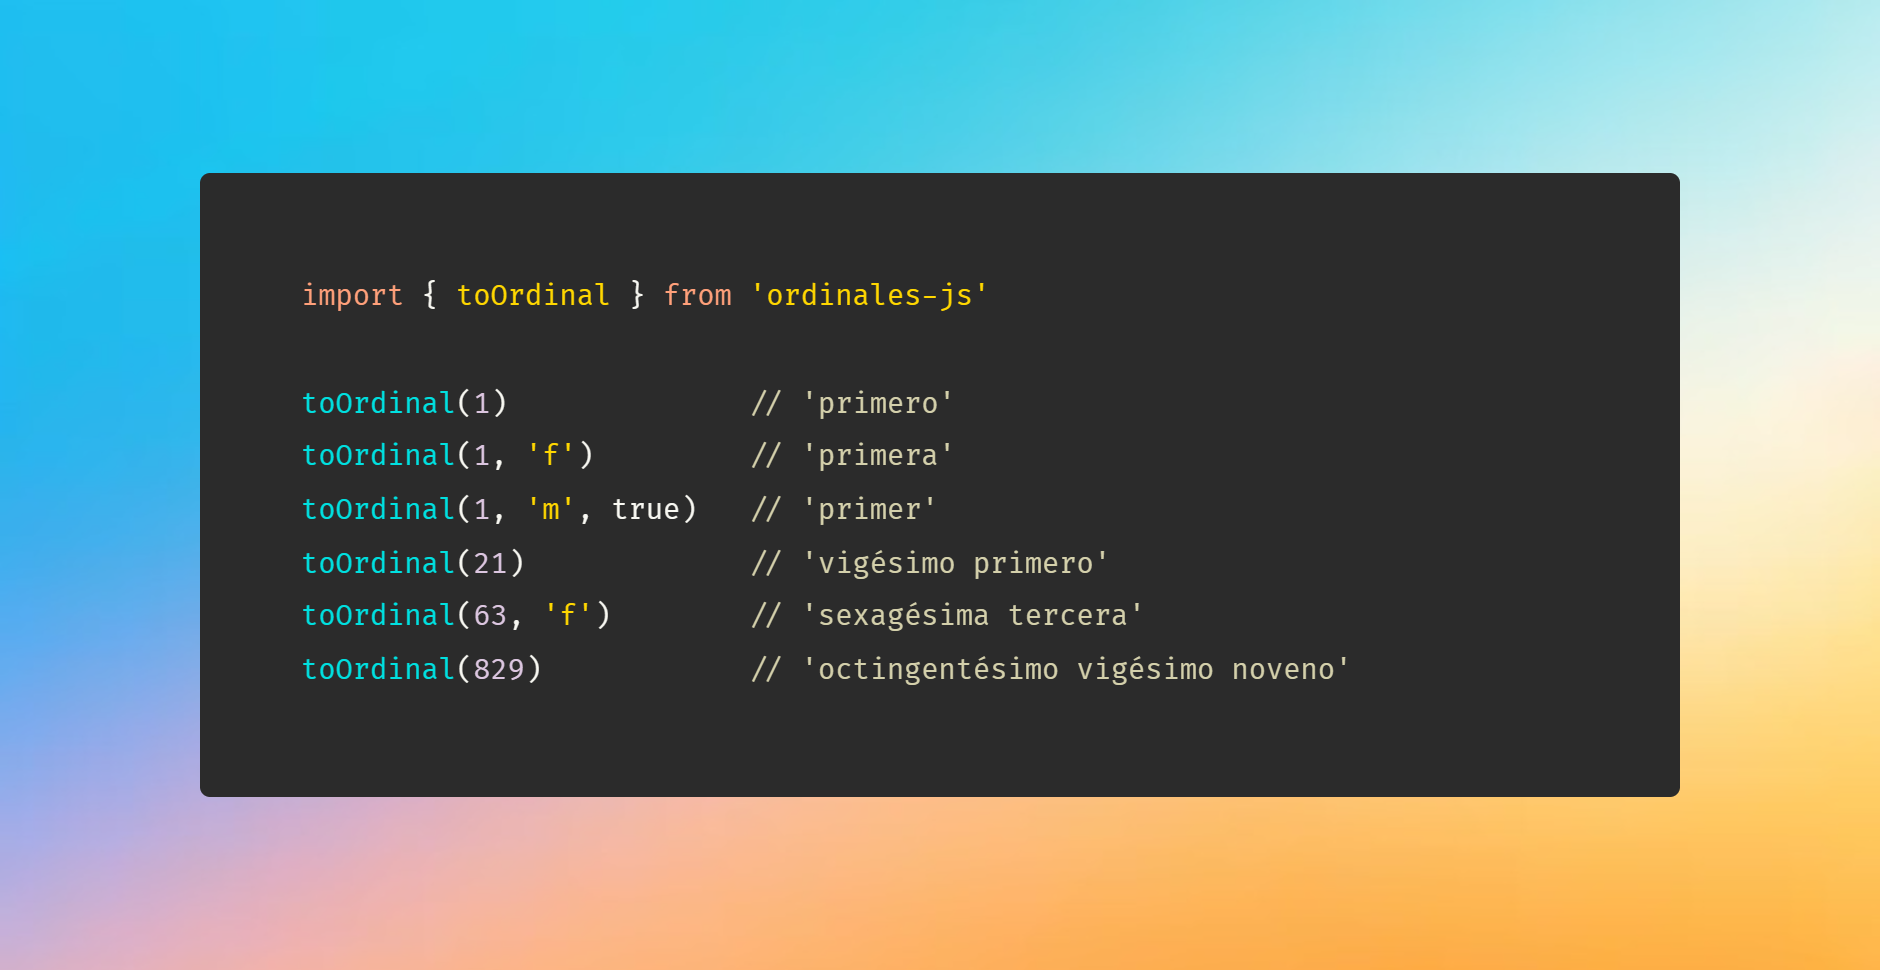
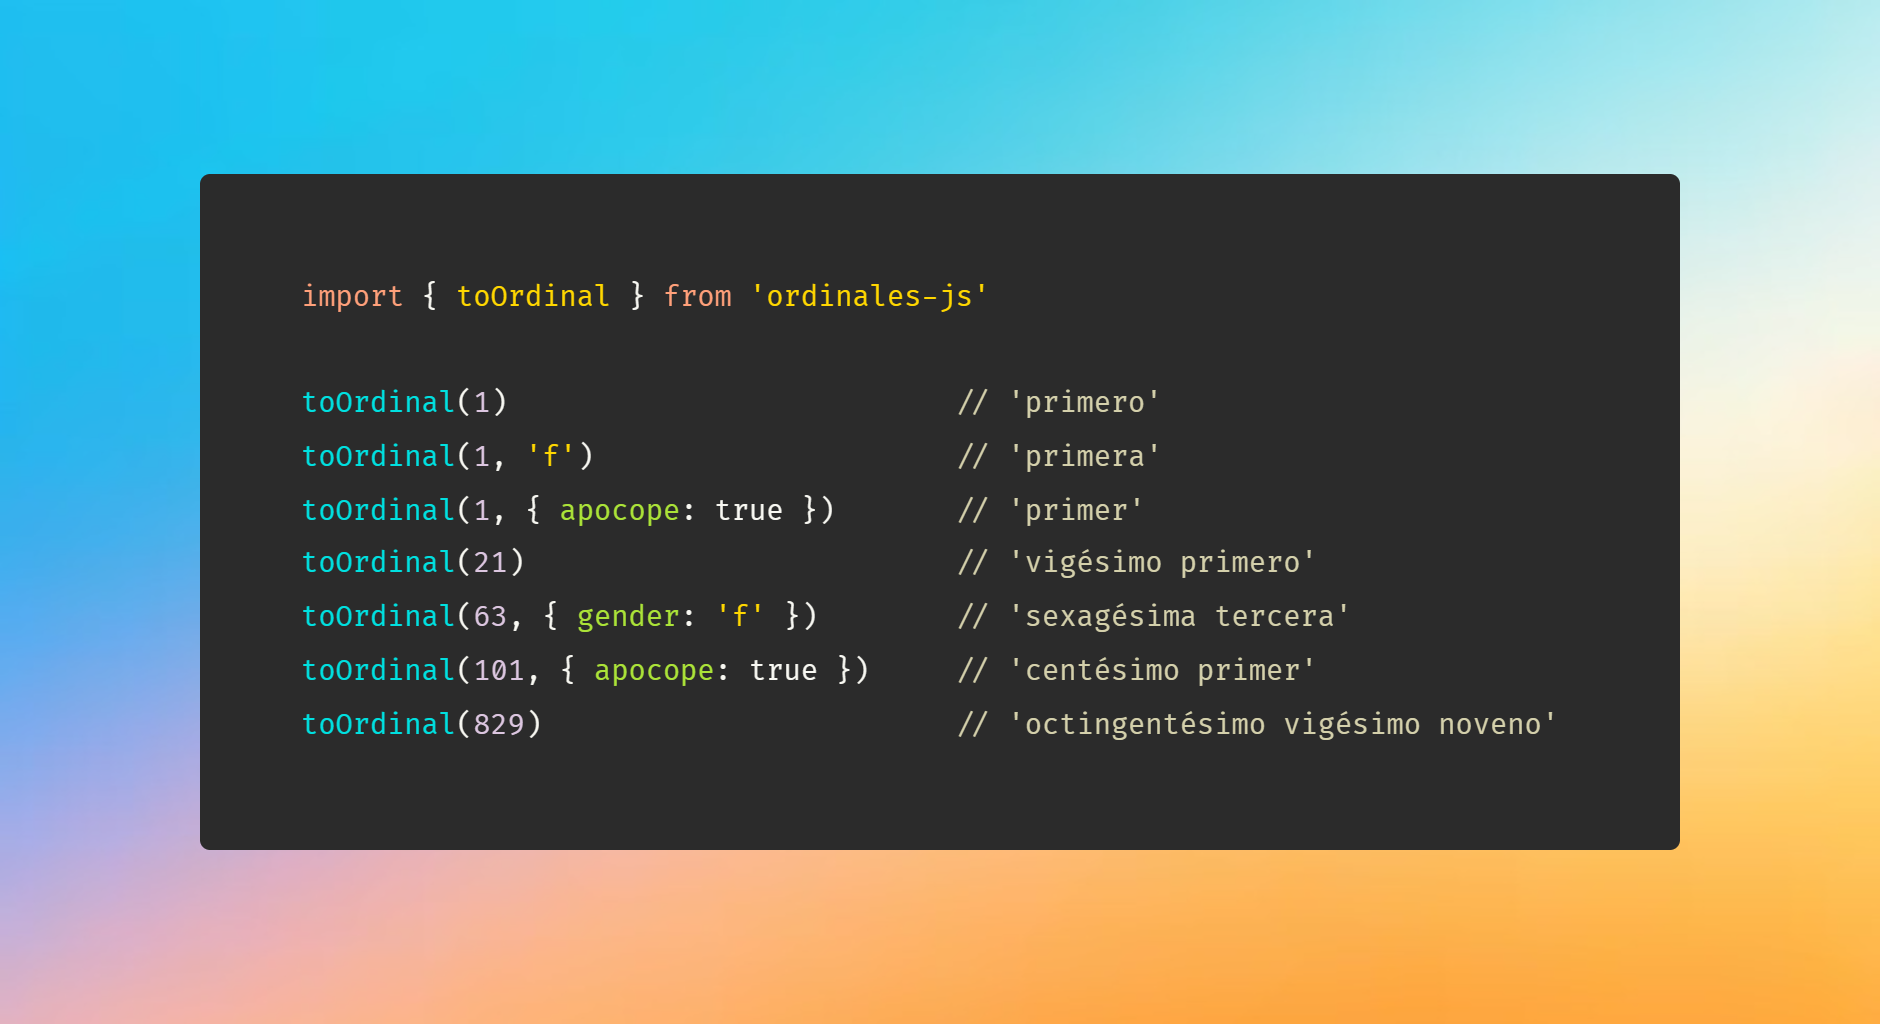
Merge pull request #27 from AndresSaa/feat/options-object-api
feat: segundo parámetro como objeto { gender, apocope } en toOrdinal

Pull request: feat: segundo parámetro como objeto { gender, apocope } en toOrdinal
## Resumen

- El segundo parámetro de `toOrdinal` acepta ahora un objeto `{ gender, apocope }` además del string de género abreviado (`'m'` / `'f'`), lo que permite combinar ambas opciones en una sola llamada
- Se elimina el tercer parámetro posicional (nunca publicado en npm): el apócope pasa a vivir en el objeto de opciones
- Tests, demo, README y CHANGELOG actualizados para reflejar la nueva API limpiamente

## Cambios

- `src/ordinales.js` — `toOrdinal(number, options)` detecta si `options` es string u objeto
- `test.mjs` — nuevo bloque _"género mediante objeto de opciones"_; todos los casos de apócope usan `{ apocope: true }`
- `demo.mjs` — usa `{ apocope: true }` como segundo argumento
- `README.md` — sección Género con forma objeto, sección Apócope actualizada, ejemplo de `enhance()` con número que muestra apócope real (`21`)
- `CHANGELOG.md` — documenta la API de opciones en v2.0.0; elimina referencia al tercer parámetro en v1.1.0

## Plan de pruebas

- [ ] `npm test` — 6/6 tests pasan
- [ ] `npm run demo` — salida correcta en las tres columnas
- [ ] Revisar ejemplos del README manualmente contra la salida real

diff --git a/src/ordinales.js b/src/ordinales.js
@@ -57,7 +57,10 @@ const buildParts = (n, gender = 'm') => {
 }
 
 // Convierte un número a su forma ordinal en español, con opciones de género y apócope
-const toOrdinal = (number = 0, gender = 'm', apocope = false) => {
+const toOrdinal = (number = 0, options = 'm') => {
+  const gender  = typeof options === 'object' ? (options.gender  ?? 'm')   : options
+  const apocope = typeof options === 'object' ? (options.apocope ?? false) : false
+
   const ordinal = buildParts(number, gender)
     .map(part => gender === 'f' ? part.slice(0, -1) + 'a' : part)
     .join(' ')

diff --git a/README.md b/README.md
@@ -32,12 +32,13 @@ npm install ordinales-js
 ```js
 import { toOrdinal } from 'ordinales-js'
 
-toOrdinal(1)             // 'primero'
-toOrdinal(1, 'f')        // 'primera'
-toOrdinal(1, 'm', true)  // 'primer'
-toOrdinal(21)            // 'vigésimo primero'
-toOrdinal(63, 'f')       // 'sexagésima tercera'
-toOrdinal(829)           // 'octingentésimo vigésimo noveno'
+toOrdinal(1)                          // 'primero'
+toOrdinal(1, 'f')                     // 'primera'
+toOrdinal(1, { apocope: true })       // 'primer'
+toOrdinal(21)                         // 'vigésimo primero'
+toOrdinal(63, { gender: 'f' })        // 'sexagésima tercera'
+toOrdinal(101, { apocope: true })     // 'centésimo primer'
+toOrdinal(829)                        // 'octingentésimo vigésimo noveno'
 ```
 
 **CommonJS**
@@ -45,26 +46,41 @@ toOrdinal(829)           // 'octingentésimo vigésimo noveno'
 ```js
 const { toOrdinal } = require('ordinales-js')
 
-toOrdinal(1)             // 'primero'
-toOrdinal(1, 'f')        // 'primera'
-toOrdinal(1, 'm', true)  // 'primer'
+toOrdinal(1)                          // 'primero'
+toOrdinal(1, 'f')                     // 'primera'
+toOrdinal(1, { apocope: true })       // 'primer'
 ```
 
 ## API
 
-### `toOrdinal(numero, genero?, apocope?)`
+### `toOrdinal(numero, opciones?)`
 
-| Parámetro | Tipo | Por defecto | Descripción |
-|-----------|------|-------------|-------------|
-| `numero` | `number` | `0` | Número cardinal a convertir |
-| `genero` | `'m'` \| `'f'` | `'m'` | Género del ordinal |
-| `apocope` | `boolean` | `false` | Aplica apócope al resultado (`primero` → `primer`, `tercero` → `tercer`) |
+El segundo parámetro acepta un `string` de género o un objeto de opciones.
+
+| Forma | Ejemplo |
+|-------|---------|
+| `toOrdinal(n)` | género masculino por defecto |
+| `toOrdinal(n, 'f')` | género femenino |
+| `toOrdinal(n, { gender, apocope })` | objeto de opciones |
+
+#### Opciones
+
+| Opción | Tipo | Por defecto | Descripción |
+|--------|------|-------------|-------------|
+| `gender` | `'m'` \| `'f'` | `'m'` | Género del ordinal |
+| `apocope` | `boolean` | `false` | Aplica apócope (`primero` → `primer`, `tercero` → `tercer`) |
 
 #### Género
 
 ```js
-toOrdinal(1, 'm')  // 'primero'
-toOrdinal(1, 'f')  // 'primera'
+// Forma abreviada — string
+toOrdinal(1, 'm')             // 'primero'
+toOrdinal(1, 'f')             // 'primera'
+
+// Forma objeto
+toOrdinal(1,  { gender: 'f' })  // 'primera'
+toOrdinal(21, { gender: 'f' })  // 'vigésima primera'
+toOrdinal(63, { gender: 'f' })  // 'sexagésima tercera'
 ```
 
 #### Apócope
@@ -72,24 +88,24 @@ toOrdinal(1, 'f')  // 'primera'
 Se utiliza cuando el ordinal precede a un sustantivo masculino.
 
 ```js
-toOrdinal(1, 'm', true)   // 'primer'
-toOrdinal(3, 'm', true)   // 'tercer'
-toOrdinal(21, 'm', true)  // 'vigésimo primer'
+toOrdinal(1,  { apocope: true })             // 'primer'
+toOrdinal(3,  { apocope: true })             // 'tercer'
+toOrdinal(21, { apocope: true })             // 'vigésimo primer'
 
-// El apócope no afecta al femenino
-toOrdinal(1, 'f', true)   // 'primera'
+// Con género femenino explícito — el apócope no aplica
+toOrdinal(1, { gender: 'f', apocope: true }) // 'primera'
 ```
 
 #### Números grandes
 
 ```js
-toOrdinal(10000)             // 'décimo milésimo'
-toOrdinal(21000)             // 'vigésimo primer milésimo'
-toOrdinal(21000, 'f')        // 'vigésima primera milésima'
-toOrdinal(123456)            // 'centésimo vigésimo tercer milésimo cuadrigentésimo quincuagésimo sexto'
-toOrdinal(1000000)           // 'millonésimo'
-toOrdinal(2000000)           // 'dosmillonésimo'
-toOrdinal(21000000, 'm', true) // 'vigésimo primer millonésimo'
+toOrdinal(10000)                        // 'décimo milésimo'
+toOrdinal(21000)                        // 'vigésimo primer milésimo'
+toOrdinal(21000, 'f')                   // 'vigésima primera milésima'
+toOrdinal(123456)                       // 'centésimo vigésimo tercer milésimo cuadrigentésimo quincuagésimo sexto'
+toOrdinal(1000000)                      // 'millonésimo'
+toOrdinal(2000000)                      // 'dosmillonésimo'
+toOrdinal(21000000, { apocope: true })  // 'vigésimo primer millonésimo'
 ```
 
 ### `enhance()`
@@ -104,9 +120,11 @@ const { enhance } = require('ordinales-js')
 
 enhance()
 
-const numero = 256
-numero.toOrdinal()        // 'ducentésimo quincuagésimo sexto'
-numero.toOrdinal('f')     // 'ducentésima quincuagésima sexta'
+const numero = 21
+numero.toOrdinal()                        // 'vigésimo primero'
+numero.toOrdinal('f')                     // 'vigésima primera'
+numero.toOrdinal({ gender: 'f' })         // 'vigésima primera'
+numero.toOrdinal({ apocope: true })       // 'vigésimo primer'
 ```
 
 ## Demo
@@ -125,4 +143,4 @@ npm run demo
 
 ## Licencia
 
-[ISC](./LICENSE)
+[MIT](./LICENSE)

diff --git a/CHANGELOG.md b/CHANGELOG.md
@@ -10,6 +10,9 @@ y este proyecto sigue [Versionado Semántico](https://semver.org/lang/es/).
 ## [2.0.0] - 2026-05-14
 
 ### Añadido
+- **API de opciones**: el segundo parámetro acepta un objeto `{ gender, apocope }`
+  además del string de género (`'m'` / `'f'`), permitiendo combinar género y apócope
+  en una sola llamada: `toOrdinal(21, { gender: 'f', apocope: true })`
 - Composición recursiva de ordinales: soporta números hasta millones y más
   (`décimo milésimo`, `vigésimo primer milésimo`, `dosmillonésimo`…)
 - Apócope interno automático al componer escalas en masculino
@@ -40,8 +43,8 @@ y este proyecto sigue [Versionado Semántico](https://semver.org/lang/es/).
 ## [1.1.0] - 2025
 
 ### Añadido
-- Parámetro `apocope` (tercero en `toOrdinal`) para obtener las formas apocopadas
-  `primer` y `tercer` cuando el ordinal precede a un sustantivo masculino singular
+- Soporte de apócope: formas `primer` y `tercer` cuando el ordinal precede
+  a un sustantivo masculino singular
 - Script `demo` simplificado, ejecutable directamente desde `src/`
 
 ### Corregido